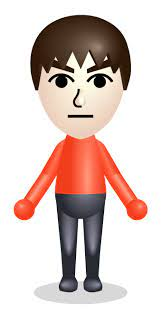
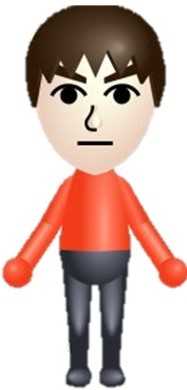
1620 21oct22

diff --git a/doc/bmi.html b/doc/bmi.html
@@ -9,37 +9,191 @@
 
 <body>
     <div class="inputarea">
+        <h1>English BMI Calculator</h1>
+        <!--Name-->
         <p>
-            Name: <input type="text" name="userName">
+            <label for="name">Name: </label> <input type="text" id="name" placeholder="Name">
         </p>
-        <p>
-            Weight: <input type="text" name="weight"> lbs.
+        <p id="welcome">
+
         </p>
-        <p>
-            Height: <input type="text" name="height"> in.
+        <!--Welcome Message-->
+        <script>
+            function welcomeMessage(){
+                var userName = document.getElementById('name').value;
+                document.getElementById('welcome').innerHTML = "hello " + userName + ", thanks for using our BMI calculator.";
+            }
+            document.getElementById('name').addEventListener('blur',welcomeMessage,false)
+        </script>
+        <!--Weight-->
+        <p id="wt">
+            <label for="weight">*Weight: </label> <input type="text" id="weight" placeholder="160"> lbs. (1 - 2,000 lbs.)
         </p>
-        <p>Age:
-            <select name="ageSelect">
+        <p id="wtval"></p>
+        <!--Validate Weight-->
+        <script>
+            function valWeight(){
+            var wtin = parseFloat(document.getElementById('weight').value);
+            console.log("weight = " + wtin);
+            //check for NaN
+            if(wtin !== wtin || wtin < 1 || wtin > 2000){
+                document.getElementById('wtval').textContent = "Input is not a number, less than 1, or above 2,000 please enter a valid number. Your weight has been set to 160.";
+                wtin = 160;
+            }
+            else{
+                document.getElementById('wtval').innerHTML = "weight is set to: " + wtin + " lbs.";
+            }
+            console.log('wt = ' + wtin);
+            document.getElementById('wt').value = wtin;
+            }
+            document.getElementById('weight').addEventListener('blur',valWeight,false);
+        </script>
+        <!--Height-->
+        <p id="ht">
+           <label for="height">*Height: </label><input type="text" id="height" placeholder="70" required> in. (1 - 120 in.)
+        </p>
+        <p id="htval"></p>
+        <!--Validate Hieght-->
+        <script>
+            function valHeight(){
+                var htin = parseFloat(document.getElementById('height').value);
+                console.log("height = "+ htin);
+                if(htin !== htin || htin < 1 || htin > 120){
+                    document.getElementById('htval').textContent = "Input is not a number, less than 1, or above 120 please enter a valid number. Your height has been set to 70in.";
+                    htin = 70;
+                }
+                else{
+                    document.getElementById('htval').innerHTML = "Height is set to: " + htin + " in.";
+                }
+                console.log('ht = ' + htin);
+                document.getElementById('ht').value = htin;
+            }
+            document.getElementById('height').addEventListener('blur',valHeight,false);
+        </script>
+        <!--Age-->
+        <p><label for="age">*Age: </label>
+            <select name="ageSelect" id="age">
+                <option value="0">Select an option</option>
                 <option value="1">20 below</option>
                 <option value="2">20-30</option>
                 <option value="3">30-50</option>
                 <option value="4">50 above</option>
             </select>
         </p>
+        <p id="CDClinks"></p>
+        <!--button-->
         <p>
-            <input type="submit" value="Compute BMI">
+            <input type="submit" value="Compute BMI" id="calcButton">
         </p>
-        </div>
-        <div class="pictures">
-        <p>
-            <img src="../img/BMIbar.jpg" alt="A green to red bar showing " id="BMIbar"> <br>
-        </p>
+        <!--Display links for <20 years old-->
+        <script>
+            function lowage() {
+                var ageIndex = document.getElementById('age').value;
+                if(ageIndex == 1){
+                    document.getElementById('CDClinks').innerHTML = '<a href="https://www.cdc.gov/growthcharts/data/set1clinical/cj41l023.pdf">CDC link boys</a> <a href="https://www.cdc.gov/growthcharts/data/set1clinical/cj41l024.pdf">CDC link girls</a>';
+                }
+            }
+            var ageIndex = document.getElementById('age').value;
+            calcButton.addEventListener('click', lowage, false);
+        </script>
+        <!--Formula for BMI=====((lbs) / [(in)^2]) * 703 & actions-->
+        <script>
+            var bmi = 20;
+            function calcBMI(){
+                //get vars
+                var wt = parseFloat(document.getElementById('wt').value);
+                console.log("BMI Calc weight: " + wt);
+                var ht = parseFloat(document.getElementById('ht').value);
+                console.log("BMI Calc height: " + ht);
+                var ageCheck = document.getElementById('age').value;
+                console.log("Age index value: " + ageCheck);
+                var printBMI = document.getElementById('BMIresult');
+                //start calc
+                if(ht !== ht || wt !== wt){
+                    printBMI.textContent = "Please input a valid height / weight";
+                }else{
+                    if(ageCheck != 0){
+                        var bmifinal = parseFloat((wt / Math.pow(ht,2)) * 703).toFixed(2);
+                        printBMI.innerHTML = "Your BMI is: " + bmifinal + "!";
+                        bmi = bmifinal;
+                    }else{
+                        printBMI.textContent = "Please select an age";
+                    }
+                }
+                console.log("BMI = " + bmifinal);
+                //function for alert overweight/obese
+                if(bmifinal >= 28 && ageCheck != 1){
+                    alert('You are overweight / obese!');
+                    window.open("http://www.nhlbi.nih.gov/health/public/heart/obesity/lose_wt/control.htm");
+                }
+            }
+            document.getElementById('calcButton').addEventListener('click',calcBMI,false);
+            
+        </script>
+        <!--Calculated BMI-->
+        <p id="BMIresult"></p>
+        <p>* = required</p>
+    <!--animations / pictures-->
+    </div>
+    <div class="animated">
+        <!--non - moving-->
+        <p><img src="../img/BMIbar.jpg" alt="A green to red bar showing " id="BMIbar"></p>
+        <img src="../img/swirlBG.jpg" alt="a colorful swirl" id="swirl">
         <p id="lefttext">Underweight</p>
         <p id="midlefttext">Normalweight</p>
         <p id="midrighttext">Overweight</p>
         <p id="righttext">Obese</p>
+        <!--Moving pieces-->
         <img src="../img/Mii.jpg" alt="A mii image" id="mii">
+        <script>
+            //img original: h:354px w:739px
+            function miiscale(){
+                var miiimg = document.getElementById('mii');
+                bmi = 333
+                switch (true) {
+                    case (bmi<18.5):
+                    miiimg.animate([{transform:'scaleX(1)'},{transform:'scaleX(0.75)'}],{duration:1000,fill:'forwards'});
+                        break;
+                    case (bmi < 25):
+                    miiimg.animate([{transform:'scaleX(1)'},{transform:'scaleX(1)'}],{duration:0,fill:'forwards'});
+                        break;
+                    case (bmi<30):
+                    miiimg.animate([{transform:'scaleX(1)'},{transform:'scaleX(1.2)'}],{duration:1000,fill:'forwards'});
+                        break;
+                    case (bmi>=30):
+                    miiimg.animate([{transform:'scaleX(1)'},{transform:'scaleX(1.5)'}],{duration:2000,fill:'forwards'});
+                        break;
+                    default:
+                    miiimg.animate([{transform:'scaleX(1)'},{transform:'scaleX(1)'}],{duration:0,fill:'forwards'});
+                        break;
+                }
+            }
+            document.getElementById('calcButton').addEventListener('click',miiscale,false);
+        </script>
         <img src="../img/slider.png" alt="slider" id="slider">
+        <script>
+            function slider(){
+                var slider = document.getElementById('slider');
+                switch (true) {
+                    case (bmi<18.5):
+                    slider.animate([{transform:'translate(0,0)'},{transform:'translate(-200px, 0)'}],{duration:1000,fill:'forwards'});
+                        break;
+                    case (bmi < 25):
+                    slider.animate([{transform:'translate(0,0)'},{transform:'translate(0, 0)'}],{duration:0,fill:'forwards'});
+                        break;
+                    case (bmi<30):
+                    slider.animate([{transform:'translate(0,0)'},{transform:'translate(175px, 0)'}],{duration:1000,fill:'forwards'});
+                        break;
+                    case (bmi>=30):
+                    slider.animate([{transform:'translate(0,0)'},{transform:'translate(350px, 0)'}],{duration:2000,fill:'forwards'});
+                        break;
+                    default:
+                    slider.animate([{transform:'translate(0,0)'},{transform:'translate(0, 0)'}],{duration:0,fill:'forwards'});
+                        break;
+                }
+            }
+            document.getElementById('calcButton').addEventListener('click',slider,false);
+        </script>
     </div>
 </body>
 

diff --git a/css/bmi.css b/css/bmi.css
@@ -1,41 +1,82 @@
 /*
-01 Layout
+01 color
+02 Layout
+03 Format
 */
+/*01 Color*/
+div.inputarea{
+    background-color: deepskyblue;
+}
+/*02 Layout*/
+body{
+    margin: 0%;
+}
 
-/*01 Layout*/
+#swirl{
+    position: absolute;
+    left: 700px;
+    top: 0;
+    border-radius: 25px;
+}
 #BMIbar{
     position: absolute;
-    left: 35%;
     top: 50px;
+    left: 700px;
+    z-index: 2;
 }
 #lefttext{
 position: absolute;
 top: 60px;
-left: 35%;
+left: 700px;
+z-index: 3;
 }
 #midlefttext{
 position: absolute;
 top: 60px;
-left: 41%;
+left: 850px;
+z-index: 3;
 }
 #midrighttext{
 position: absolute;
 top: 60px;
-left: 48%;
+left: 1050px;
+z-index: 3;
 }
 #righttext{
 position: absolute;
 top: 60px;
-left: 55%;
+left: 1250px;
+z-index: 3;
 }
 #mii{
     position: absolute;
-    left: 43%;
-    top: 150px;
+    left: 900px;
+    top: 200px;
+    z-index: 3;
+    height: 390px;
 }
 #slider{
     position: absolute;
-    left: 35%;
+    left: 900px;
     top: 25px;
     opacity: 60%;
+    z-index: 4;
+}
+div.inputarea{
+    position: absolute;
+    margin: 25px;
+    width: 500px;
+    padding-bottom: 250px;
+    padding-right: 100px;
+}
+div.inputarea p{
+    margin: 25px auto;
+    padding-left: 15px;
+}
+/*03 Format*/
+div.inputarea{
+border-radius: 25px;
+}
+h1{
+    margin: 15px;
 }
